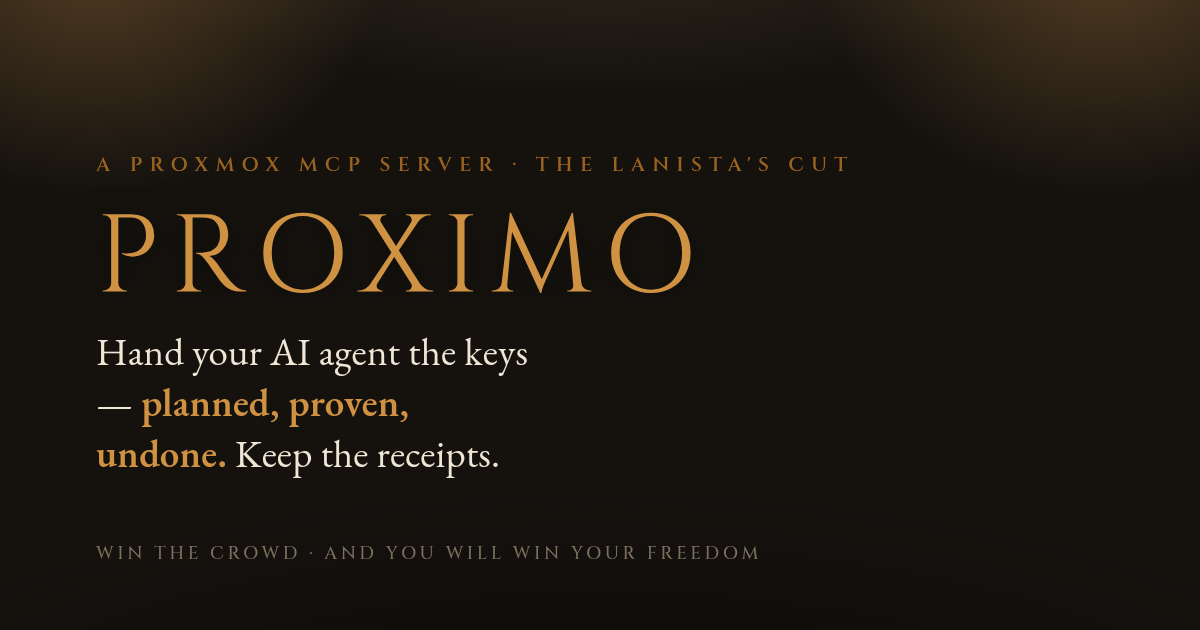
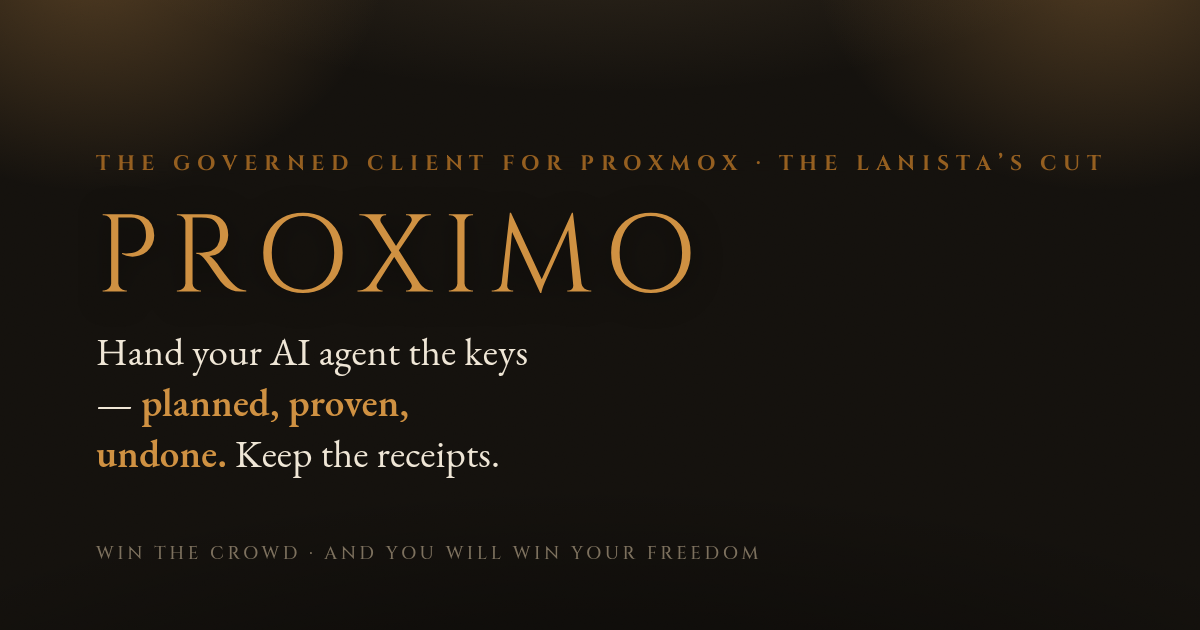
proximo 0.50.0: the status line, the test count, and the governed-client line on the card, the page and the social image

Changed region(s): [[0.0617, 0.2413, 0.925, 0.2714]]

diff --git a/proximo/index.html b/proximo/index.html
@@ -4,7 +4,7 @@
 <meta charset="utf-8">
 <meta name="viewport" content="width=device-width, initial-scale=1">
 <title>Proximo — hand your agent the keys, keep the receipts</title>
-<meta name="description" content="Proximo is a Proxmox MCP server that arms an AI agent with exactly the reach it needs — every mutation planned before it lands, proven on a tamper-evident ledger, undone where the platform can snapshot. Your metal, your token, a ledger you own.">
+<meta name="description" content="Proximo is the governed client for Proxmox. It arms an AI agent with exactly the reach it needs — every mutation planned before it lands, proven on a tamper-evident ledger, undone where the platform can snapshot. Your metal, your token, a ledger you own.">
 <link rel="canonical" href="https://john-broadway.github.io/proximo/">
 <link rel="icon" type="image/png" sizes="64x64" href="proximo-favicon-64.png">
 <link rel="icon" type="image/png" sizes="32x32" href="proximo-favicon-32.png">
@@ -17,7 +17,7 @@
 <meta property="og:site_name" content="Proximo">
 <meta property="og:url" content="https://john-broadway.github.io/proximo/">
 <meta property="og:title" content="Proximo — hand your agent the keys, keep the receipts">
-<meta property="og:description" content="A Proxmox MCP server that arms an AI agent with exactly the reach it needs — planned, proven, undone. The lanista's cut.">
+<meta property="og:description" content="The governed client for Proxmox: it arms an AI agent with exactly the reach it needs — planned, proven, undone. The lanista's cut.">
 <meta property="og:image" content="https://john-broadway.github.io/proximo/proximo-social.png">
 <meta property="og:image:width" content="1200">
 <meta property="og:image:height" content="630">
@@ -25,7 +25,7 @@
 <!-- Twitter -->
 <meta name="twitter:card" content="summary_large_image">
 <meta name="twitter:title" content="Proximo — hand your agent the keys, keep the receipts">
-<meta name="twitter:description" content="A Proxmox MCP server that arms an AI agent with exactly the reach it needs — planned, proven, undone. The lanista's cut.">
+<meta name="twitter:description" content="The governed client for Proxmox: it arms an AI agent with exactly the reach it needs — planned, proven, undone. The lanista's cut.">
 <meta name="twitter:image" content="https://john-broadway.github.io/proximo/proximo-social.png">
 <style>
   @font-face{
@@ -291,7 +291,7 @@
   <header class="hero">
     <div class="wrap">
       <span class="mark" aria-label="Proximo"><svg xmlns="http://www.w3.org/2000/svg" viewBox="0 220 5431 812" role="img" aria-label="Proximo"><defs><linearGradient id="wm-dark" x1="0" y1="1" x2="0" y2="0"><stop offset="0" stop-color="#f2c877"/><stop offset="1" stop-color="#b87e2e"/></linearGradient><linearGradient id="wm-light" x1="0" y1="1" x2="0" y2="0"><stop offset="0" stop-color="#c1913b"/><stop offset="1" stop-color="#6f430e"/></linearGradient></defs><g transform="matrix(1 0 0 -1 0 976)"><path transform="translate(0,0)" d="M189 700H321Q385 700 431.0 677.0Q477 654 502.0 610.5Q527 567 527 507Q527 461 509.0 424.5Q491 388 461.0 363.0Q431 338 393.0 325.5Q355 313 314.5 316.0Q274 319 236 339V349Q236 349 253.0 346.5Q270 344 296.5 345.5Q323 347 352.5 356.5Q382 366 407.5 390.0Q433 414 446 457Q449 468 451.0 484.5Q453 501 452 517Q451 586 416.0 628.0Q381 670 317 670H199Q199 670 196.5 677.5Q194 685 191.5 692.5Q189 700 189 700ZM202 700V0H137V700ZM140 73V0H60V10Q60 10 66.5 10.0Q73 10 73 10Q99 10 117.5 28.5Q136 47 137 73ZM140 627H137Q137 653 118.0 671.5Q99 690 73 690Q73 690 67.0 690.0Q61 690 61 690L60 700H140ZM199 73H202Q203 47 221.5 28.5Q240 10 266 10Q266 10 272.5 10.0Q279 10 279 10V0H199Z"/><path transform="translate(672,0)" d="M189 700H330Q375 700 411.5 687.0Q448 674 473.0 649.5Q498 625 511.5 590.5Q525 556 525 512Q525 464 502.5 420.0Q480 376 441.5 348.5Q403 321 355 321Q372 314 392.0 292.5Q412 271 427 251Q427 251 440.5 231.5Q454 212 474.5 184.0Q495 156 516.0 129.0Q537 102 552 86Q572 64 592.0 47.0Q612 30 635.5 20.0Q659 10 688 10V0H633Q587 0 553.5 14.0Q520 28 497.0 48.5Q474 69 458 88Q455 92 441.5 111.0Q428 130 409.5 156.5Q391 183 373.0 209.0Q355 235 342.0 253.5Q329 272 327 275Q308 300 285.0 321.0Q262 342 235 342V352Q235 352 250.5 351.5Q266 351 288 352Q314 353 345.0 360.0Q376 367 403.0 389.0Q430 411 444 456Q447 467 449.0 483.5Q451 500 450 516Q449 584 415.5 624.5Q382 665 326 668Q298 670 268.5 669.5Q239 669 219.0 669.0Q199 669 199 669Q199 670 196.5 677.5Q194 685 191.5 692.5Q189 700 189 700ZM202 700V0H137V700ZM140 73V0H60V10Q60 10 66.5 10.0Q73 10 73 10Q99 10 117.5 28.5Q136 47 137 73ZM140 627H137Q136 653 117.5 671.5Q99 690 73 690Q73 690 66.5 690.0Q60 690 60 690V700H140ZM199 73H202Q202 47 221.0 28.5Q240 10 266 10Q266 10 272.0 10.0Q278 10 278 10V0H199Z"/><path transform="translate(1444,0)" d="M429 714Q536 714 617.0 668.5Q698 623 743.5 541.0Q789 459 789 350Q789 241 743.5 159.0Q698 77 617.0 31.5Q536 -14 429 -14Q323 -14 242.0 31.5Q161 77 115.5 159.0Q70 241 70 350Q70 459 115.5 541.0Q161 623 242.0 668.5Q323 714 429 714ZM429 16Q514 16 577.5 58.0Q641 100 676.5 175.0Q712 250 712 350Q712 450 676.5 525.0Q641 600 577.5 642.0Q514 684 429 684Q345 684 281.5 642.0Q218 600 182.5 525.0Q147 450 147 350Q147 250 182.5 175.0Q218 100 281.5 58.0Q345 16 429 16Z"/><path transform="translate(2377,0)" d="M156 700 601 1H521L78 700ZM169 72Q160 58 164.0 43.5Q168 29 179.5 19.5Q191 10 204 10Q204 10 210.5 10.0Q217 10 217 10V0H-10V10H4Q36 10 63.0 28.0Q90 46 106 69ZM309 372 332 329 124 1H60ZM476 72 558 68Q574 45 601.0 27.5Q628 10 659 10H673V0H429V10Q429 10 435.0 10.0Q441 10 441 10Q462 10 475.5 30.0Q489 50 476 72ZM249 700V690Q249 690 243.0 690.0Q237 690 237 690Q224 690 212.5 680.5Q201 671 197.5 656.5Q194 642 202 628L122 631Q106 654 79.5 672.0Q53 690 21 690H7V700ZM586 700 351 354 317 378 521 700ZM654 700V690H640Q609 690 582.5 672.0Q556 654 539 631L475 628Q484 642 480.5 656.5Q477 671 466.0 680.5Q455 690 441 690Q441 690 435.0 690.0Q429 690 429 690V700Z"/><path transform="translate(3134,0)" d="M202 700V0H137V700ZM140 73V0H60V10Q60 10 66.5 10.0Q73 10 73 10Q99 10 117.5 28.5Q136 47 137 73ZM140 627H137Q136 653 117.5 671.5Q99 690 73 690Q73 690 66.5 690.0Q60 690 60 690V700H140ZM199 73H202Q203 47 221.5 28.5Q240 10 266 10Q266 10 272.0 10.0Q278 10 279 10V0H199ZM199 627V700H279V690Q278 690 272.0 690.0Q266 690 266 690Q240 690 221.5 671.5Q203 653 202 627Z"/><path transform="translate(3567,0)" d="M741 714 749 647 498 88Q498 88 490.5 71.0Q483 54 475.0 30.5Q467 7 464 -14H454L440 49ZM126 73V0H15V10Q16 10 23.5 10.0Q31 10 31 10Q58 10 79.0 26.5Q100 43 104 73ZM155 57Q155 56 155.0 55.0Q155 54 155 52Q155 36 166.5 22.5Q178 9 194 9H209V0H148V57ZM179 714H189L209 655L150 0H96ZM189 714 477 91 454 -14 170 602ZM750 714 836 0H758L703 606L741 714ZM806 73H827Q832 43 853.0 26.5Q874 10 900 10Q900 10 908.0 10.0Q916 10 916 10V0H806ZM753 57H760V0H699V9H714Q731 9 742.0 22.5Q753 36 753 52Q753 54 753.0 55.0Q753 56 753 57Z"/><path transform="translate(4593,0)" d="M429 714Q536 714 617.0 668.5Q698 623 743.5 541.0Q789 459 789 350Q789 241 743.5 159.0Q698 77 617.0 31.5Q536 -14 429 -14Q323 -14 242.0 31.5Q161 77 115.5 159.0Q70 241 70 350Q70 459 115.5 541.0Q161 623 242.0 668.5Q323 714 429 714ZM429 16Q514 16 577.5 58.0Q641 100 676.5 175.0Q712 250 712 350Q712 450 676.5 525.0Q641 600 577.5 642.0Q514 684 429 684Q345 684 281.5 642.0Q218 600 182.5 525.0Q147 450 147 350Q147 250 182.5 175.0Q218 100 281.5 58.0Q345 16 429 16Z"/></g></svg></span>
-      <p class="kicker">A Proxmox MCP server · the lanista's cut</p>
+      <p class="kicker">The governed client for Proxmox · the lanista's cut</p>
 
       <h1 class="say carved">So. You mean to hand an agent the keys to iron you love.</h1>
       <p class="lede">Good. Then it takes what a fighter takes into the arena: every dangerous

diff --git a/index.html b/index.html
@@ -42,16 +42,16 @@ description: Independent AI researcher and infrastructure architect. Sovereign A
   <h2>Projects</h2>
 
   <article class="card">
-    <h3><a href="https://github.com/john-broadway/proximo">Proximo &mdash; the Proxmox MCP you can hand the keys</a></h3>
+    <h3><a href="https://github.com/john-broadway/proximo">Proximo &mdash; the governed client for Proxmox</a></h3>
     <p>Most Proxmox MCPs make you pick: a read-only toy, or full keys and pray. I wasn't going to pick. Every dangerous move is planned (blast-radius preview first), undoable (it snapshots before it acts), and proven (a tamper-evident audit ledger). Hand an AI agent the keys; keep the receipts.</p>
     <p>Four Proxmox surfaces on one trust core: Virtual Environment, Backup Server, Mail Gateway, and Datacenter Manager, over MCP and A2A. Before you hand <em>any</em> tool the keys: <a href="/keys-test/">the Keys Test</a>. Ten questions, this tool scored first.</p>
     <div class="stats">
       <div class="stat"><div class="num">6</div><div class="label">tools</div></div>
       <div class="stat"><div class="num">4</div><div class="label">surfaces</div></div>
       <div class="stat"><div class="num">12</div><div class="label">trust controls</div></div>
-      <div class="stat"><div class="num">4,186</div><div class="label">tests</div></div>
+      <div class="stat"><div class="num">4,323</div><div class="label">tests</div></div>
     </div>
-    <p class="status">v0.49.1 (2026-10-27): live on <a href="https://pypi.org/project/proximo-proxmox/">PyPI</a> (<code>uvx proximo-proxmox</code>), <a href="https://github.com/john-broadway/proximo">GitHub</a>, and GHCR (signed multi-arch image). Six tools over every address the four Proxmox products publish, every call through one governed core; proven live against a real PVE 9 node. New: a named target maps node names to ssh destinations, so the shell rows reach every node of a cluster, and the operator sets how long one shell call may wait. 0.49.0 put every model-facing answer under a hard byte ceiling and made a rollback snapshot first. Apache 2.0.</p>
+    <p class="status">v0.50.0 (2026-10-28): live on <a href="https://pypi.org/project/proximo-proxmox/">PyPI</a> (<code>uvx proximo-proxmox</code>), <a href="https://github.com/john-broadway/proximo">GitHub</a>, and GHCR (signed multi-arch image). Six tools over every address the four Proxmox products publish, every call through one governed core; proven live against a real PVE 9 node. New: a named target maps node names to ssh destinations, so the shell rows reach every node of a cluster, and the operator sets how long one shell call may wait. 0.49.0 put every model-facing answer under a hard byte ceiling and made a rollback snapshot first. Apache 2.0.</p>
     <div class="tags"><span>Proxmox</span><span>MCP</span><span>A2A</span><span>Trust Layer</span></div>
   </article>
 

diff --git a/keys-test/index.html b/keys-test/index.html
@@ -52,7 +52,7 @@ description: Ten questions to ask before you hand an AI agent real infrastructur
 
   <h2>Proximo, scored (by its builder)</h2>
 
-  <p class="body-text">Rules apply to me first. <a href="https://github.com/john-broadway/proximo">Proximo</a> is a Proxmox MCP server; this is its honest sheet, checkable against <a href="https://github.com/john-broadway/proximo/blob/main/SECURITY.md">SECURITY.md</a>:</p>
+  <p class="body-text">Rules apply to me first. <a href="https://github.com/john-broadway/proximo">Proximo</a> is the governed client for Proxmox; this is its honest sheet, checkable against <a href="https://github.com/john-broadway/proximo/blob/main/SECURITY.md">SECURITY.md</a>:</p>
 
   <article class="card">
     <ol>
